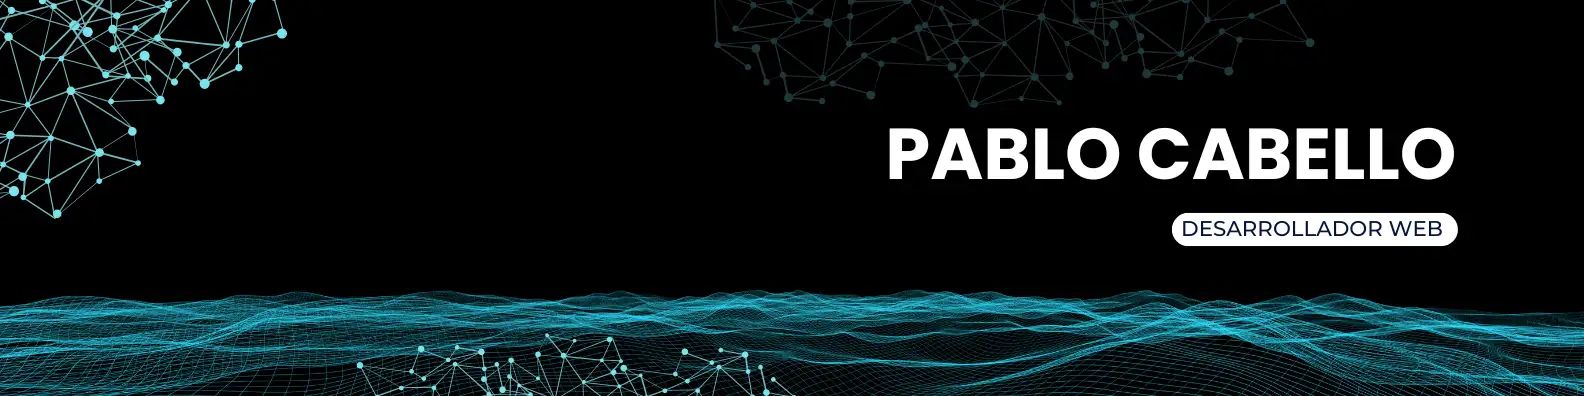
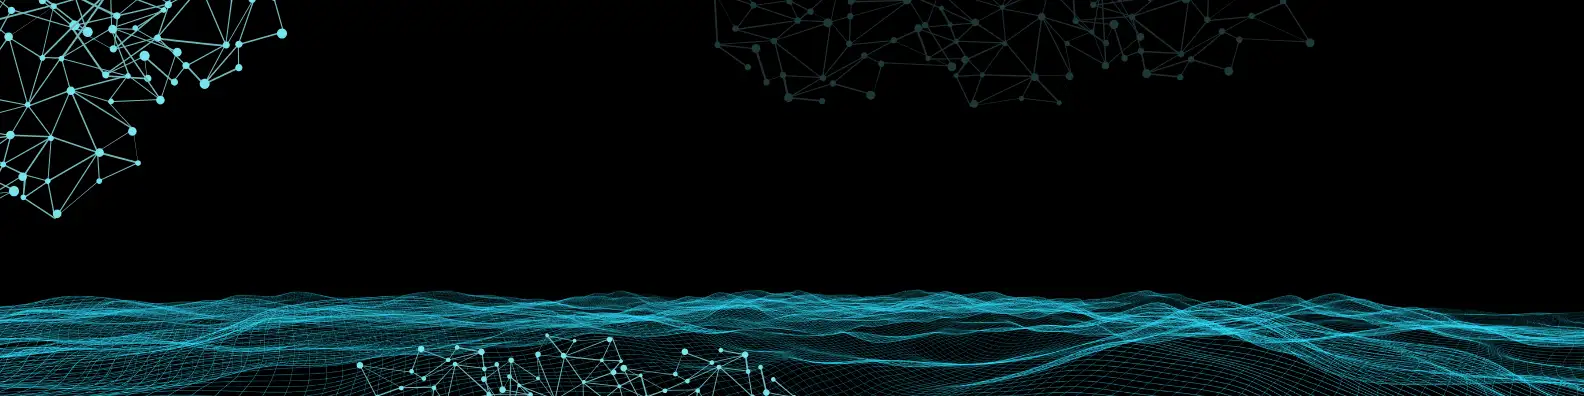
index updated

Changed region(s): [[0.5568, 0.303, 0.928, 0.4545], [0.7424, 0.5152, 0.928, 0.6364]]

diff --git a/css/style.css b/css/style.css
@@ -8,11 +8,15 @@
     --verde-oscuro: #064E4E;
     --fondo-oscuro: #121212; /* Nuevo color de fondo oscuro */
     --texto-claro: #E0E0E0; /* Nuevo color de texto claro */
+}
+
+/* Definición de variables de tamaño de texto */
+:root {
     --h1-font-size: 2.5rem;
-    --h1-color: var(--verde-cardenal);
     --h2-font-size: 2rem;
+    --h3-font-size: 1.8rem;
+    --h1-color: var(--verde-cardenal);
     --h2-color: var(--verde-azulado-claro);
-    --h3-font-size: 1.5rem;
     --h3-color: var(--blanco);
 }
 
@@ -108,20 +112,6 @@ body {
 
 .navbar ul li a:hover {
     color: var(--verde-azulado-claro); /* Verde Azulado Claro */
-}
-
-.cta-button .btn {
-    text-decoration: none;
-    color: var(--blanco); /* Blanco */
-    background-color: var(--verde-azulado-claro); /* Verde Azulado Claro */
-    padding: 10px 20px;
-    border-radius: 25px;
-    font-weight: bold;
-    transition: background-color 0.3s;
-}
-
-.cta-button .btn:hover {
-    background-color: var(--verde-oscuro); /* Verde Oscuro */
 }
 
 
@@ -265,28 +255,61 @@ body {
     border-radius: 20px;
 }
 
-/* Footer Styles */
+
+
+/*----------------- Footer Styles -----------------*/
+
 .footer-container {
     position: relative;
-    display: inline-block;
+    display: flex;
+    flex-direction: column;
     width: 100%;
+    padding-bottom: 5%; /* Separación de la parte baja */
 }
 
 .footer-image {
     width: 100%;
 }
 
+.footer-title,
+.footer-button .btn,
 .footer-content {
     position: absolute;
-    bottom: 20px;
-    right: 25px;
+    right: 2%; /* Separación dinámica del margen derecho */
     text-align: right;
+    width: auto; /* Ajusta el ancho automáticamente */
+    box-sizing: border-box;
+}
+
+.footer-title {
+    top: 1rem; /* Ajusta la posición para apilar los elementos de arriba a abajo */
+    padding: 10px; /* Añade un poco de relleno */
+}
+
+.footer-button .btn {
+    top: 5rem; /* Ajusta la posición para evitar solapamiento */    text-decoration: none;
+    color: var(--fondo-oscuro);
+    background-color: var(--blanco); /* Verde Azulado Claro */
+    border-radius: 25px;
+    font-weight: bold;
+    transition: background-color 0.3s;
+    padding: 8px; /* Añade un poco de relleno */
+    font-size: smaller;
+    font-weight: normal;
+}
+
+.footer-button .btn:hover {
+    color: var(--blanco);
+    background-color: var(--gris-oscuro); /* Verde Oscuro */
+}
+
+.footer-content {
+    top: 8rem; /* Ajusta la posición para evitar solapamiento */
     color: var(--texto-claro);
     font-weight: 400;
     display: flex;
-    flex-direction: row;
+    flex-direction: row; /* Apila los elementos de arriba a abajo */
     gap: 25px;
-
 }
 
 .footer-content p {

diff --git a/sub/analisis.html b/sub/analisis.html
@@ -72,9 +72,15 @@
     <footer>
         <div class="footer-container">
             <img src="../assets/img/banner_foot.webp" alt="datos de contacto de cahhuDev" class="footer-image">
+            <div class="footer-title">
+                <h3>PABLO CABELLO</h3>
+            </div>
+            <div class="footer-button">
+                <a href="https://github.com/CabhuDev" class="btn" target="_blank">DESARROLLADOR WEB</a>
+            </div>
             <div class="footer-content">
                 <p>&copy; 2020 CabHuDev</p>
-                <p>Web: <a href="https://github.com/CabhuDev" class="footer-link">www.cabhudev.com</a></p>
+                <p>Web: <a href="https://github.com/CabhuDev" class="footer-link" target="_blank">www.cabhudev.com</a></p>
                 <p>Teléfono: <a href="tel:+34600518588" class="footer-link">+34 600518588</a></p>
                 <p>Email: <a href="mailto:pablo.cabello.hurtado@gmail.com" class="footer-link">pablo.cabello.hurtado@gmail.com</a></p>
             </div>

diff --git a/sub/dafo.html b/sub/dafo.html
@@ -66,9 +66,15 @@
     <footer>
         <div class="footer-container">
             <img src="../assets/img/banner_foot.webp" alt="datos de contacto de cahhuDev" class="footer-image">
+            <div class="footer-title">
+                <h3>PABLO CABELLO</h3>
+            </div>
+            <div class="footer-button">
+                <a href="https://github.com/CabhuDev" class="btn" target="_blank">DESARROLLADOR WEB</a>
+            </div>
             <div class="footer-content">
                 <p>&copy; 2020 CabHuDev</p>
-                <p>Web: <a href="https://github.com/CabhuDev" class="footer-link">www.cabhudev.com</a></p>
+                <p>Web: <a href="https://github.com/CabhuDev" class="footer-link" target="_blank">www.cabhudev.com</a></p>
                 <p>Teléfono: <a href="tel:+34600518588" class="footer-link">+34 600518588</a></p>
                 <p>Email: <a href="mailto:pablo.cabello.hurtado@gmail.com" class="footer-link">pablo.cabello.hurtado@gmail.com</a></p>
             </div>

diff --git a/sub/idea.html b/sub/idea.html
@@ -72,9 +72,15 @@
     <footer>
         <div class="footer-container">
             <img src="../assets/img/banner_foot.webp" alt="datos de contacto de cahhuDev" class="footer-image">
+            <div class="footer-title">
+                <h3>PABLO CABELLO</h3>
+            </div>
+            <div class="footer-button">
+                <a href="https://github.com/CabhuDev" class="btn" target="_blank">DESARROLLADOR WEB</a>
+            </div>
             <div class="footer-content">
                 <p>&copy; 2020 CabHuDev</p>
-                <p>Web: <a href="https://github.com/CabhuDev" class="footer-link">www.cabhudev.com</a></p>
+                <p>Web: <a href="https://github.com/CabhuDev" class="footer-link" target="_blank">www.cabhudev.com</a></p>
                 <p>Teléfono: <a href="tel:+34600518588" class="footer-link">+34 600518588</a></p>
                 <p>Email: <a href="mailto:pablo.cabello.hurtado@gmail.com" class="footer-link">pablo.cabello.hurtado@gmail.com</a></p>
             </div>

diff --git a/sub/mkt.html b/sub/mkt.html
@@ -66,9 +66,15 @@
     <footer>
         <div class="footer-container">
             <img src="../assets/img/banner_foot.webp" alt="datos de contacto de cahhuDev" class="footer-image">
+            <div class="footer-title">
+                <h3>PABLO CABELLO</h3>
+            </div>
+            <div class="footer-button">
+                <a href="https://github.com/CabhuDev" class="btn" target="_blank">DESARROLLADOR WEB</a>
+            </div>
             <div class="footer-content">
                 <p>&copy; 2020 CabHuDev</p>
-                <p>Web: <a href="https://github.com/CabhuDev" class="footer-link">www.cabhudev.com</a></p>
+                <p>Web: <a href="https://github.com/CabhuDev" class="footer-link" target="_blank">www.cabhudev.com</a></p>
                 <p>Teléfono: <a href="tel:+34600518588" class="footer-link">+34 600518588</a></p>
                 <p>Email: <a href="mailto:pablo.cabello.hurtado@gmail.com" class="footer-link">pablo.cabello.hurtado@gmail.com</a></p>
             </div>

diff --git a/sub/politicas.html b/sub/politicas.html
@@ -66,9 +66,15 @@
     <footer>
         <div class="footer-container">
             <img src="../assets/img/banner_foot.webp" alt="datos de contacto de cahhuDev" class="footer-image">
+            <div class="footer-title">
+                <h3>PABLO CABELLO</h3>
+            </div>
+            <div class="footer-button">
+                <a href="https://github.com/CabhuDev" class="btn" target="_blank">DESARROLLADOR WEB</a>
+            </div>
             <div class="footer-content">
                 <p>&copy; 2020 CabHuDev</p>
-                <p>Web: <a href="https://github.com/CabhuDev" class="footer-link">www.cabhudev.com</a></p>
+                <p>Web: <a href="https://github.com/CabhuDev" class="footer-link" target="_blank">www.cabhudev.com</a></p>
                 <p>Teléfono: <a href="tel:+34600518588" class="footer-link">+34 600518588</a></p>
                 <p>Email: <a href="mailto:pablo.cabello.hurtado@gmail.com" class="footer-link">pablo.cabello.hurtado@gmail.com</a></p>
             </div>

diff --git a/sub/promotor.html b/sub/promotor.html
@@ -74,9 +74,15 @@
     <footer>
         <div class="footer-container">
             <img src="../assets/img/banner_foot.webp" alt="datos de contacto de cahhuDev" class="footer-image">
+            <div class="footer-title">
+                <h3>PABLO CABELLO</h3>
+            </div>
+            <div class="footer-button">
+                <a href="https://github.com/CabhuDev" class="btn" target="_blank">DESARROLLADOR WEB</a>
+            </div>
             <div class="footer-content">
                 <p>&copy; 2020 CabHuDev</p>
-                <p>Web: <a href="https://github.com/CabhuDev" class="footer-link">www.cabhudev.com</a></p>
+                <p>Web: <a href="https://github.com/CabhuDev" class="footer-link" target="_blank">www.cabhudev.com</a></p>
                 <p>Teléfono: <a href="tel:+34600518588" class="footer-link">+34 600518588</a></p>
                 <p>Email: <a href="mailto:pablo.cabello.hurtado@gmail.com" class="footer-link">pablo.cabello.hurtado@gmail.com</a></p>
             </div>

diff --git a/sub/responsabilidad.html b/sub/responsabilidad.html
@@ -66,9 +66,15 @@
     <footer>
         <div class="footer-container">
             <img src="../assets/img/banner_foot.webp" alt="datos de contacto de cahhuDev" class="footer-image">
+            <div class="footer-title">
+                <h3>PABLO CABELLO</h3>
+            </div>
+            <div class="footer-button">
+                <a href="https://github.com/CabhuDev" class="btn" target="_blank">DESARROLLADOR WEB</a>
+            </div>
             <div class="footer-content">
                 <p>&copy; 2020 CabHuDev</p>
-                <p>Web: <a href="https://github.com/CabhuDev" class="footer-link">www.cabhudev.com</a></p>
+                <p>Web: <a href="https://github.com/CabhuDev" class="footer-link" target="_blank">www.cabhudev.com</a></p>
                 <p>Teléfono: <a href="tel:+34600518588" class="footer-link">+34 600518588</a></p>
                 <p>Email: <a href="mailto:pablo.cabello.hurtado@gmail.com" class="footer-link">pablo.cabello.hurtado@gmail.com</a></p>
             </div>

diff --git a/index.html b/index.html
@@ -103,9 +103,15 @@
     <footer>
         <div class="footer-container">
             <img src="assets/img/banner_foot.webp" alt="datos de contacto de cahhuDev" class="footer-image">
+            <div class="footer-title">
+                <h3>PABLO CABELLO</h3>
+            </div>
+            <div class="footer-button">
+                <a href="https://github.com/CabhuDev" class="btn" target="_blank">DESARROLLADOR WEB</a>
+            </div>
             <div class="footer-content">
                 <p>&copy; 2020 CabHuDev</p>
-                <p>Web: <a href="https://github.com/CabhuDev" class="footer-link">www.cabhudev.com</a></p>
+                <p>Web: <a href="https://github.com/CabhuDev" class="footer-link" target="_blank">www.cabhudev.com</a></p>
                 <p>Teléfono: <a href="tel:+34600518588" class="footer-link">+34 600518588</a></p>
                 <p>Email: <a href="mailto:pablo.cabello.hurtado@gmail.com" class="footer-link">pablo.cabello.hurtado@gmail.com</a></p>
             </div>
